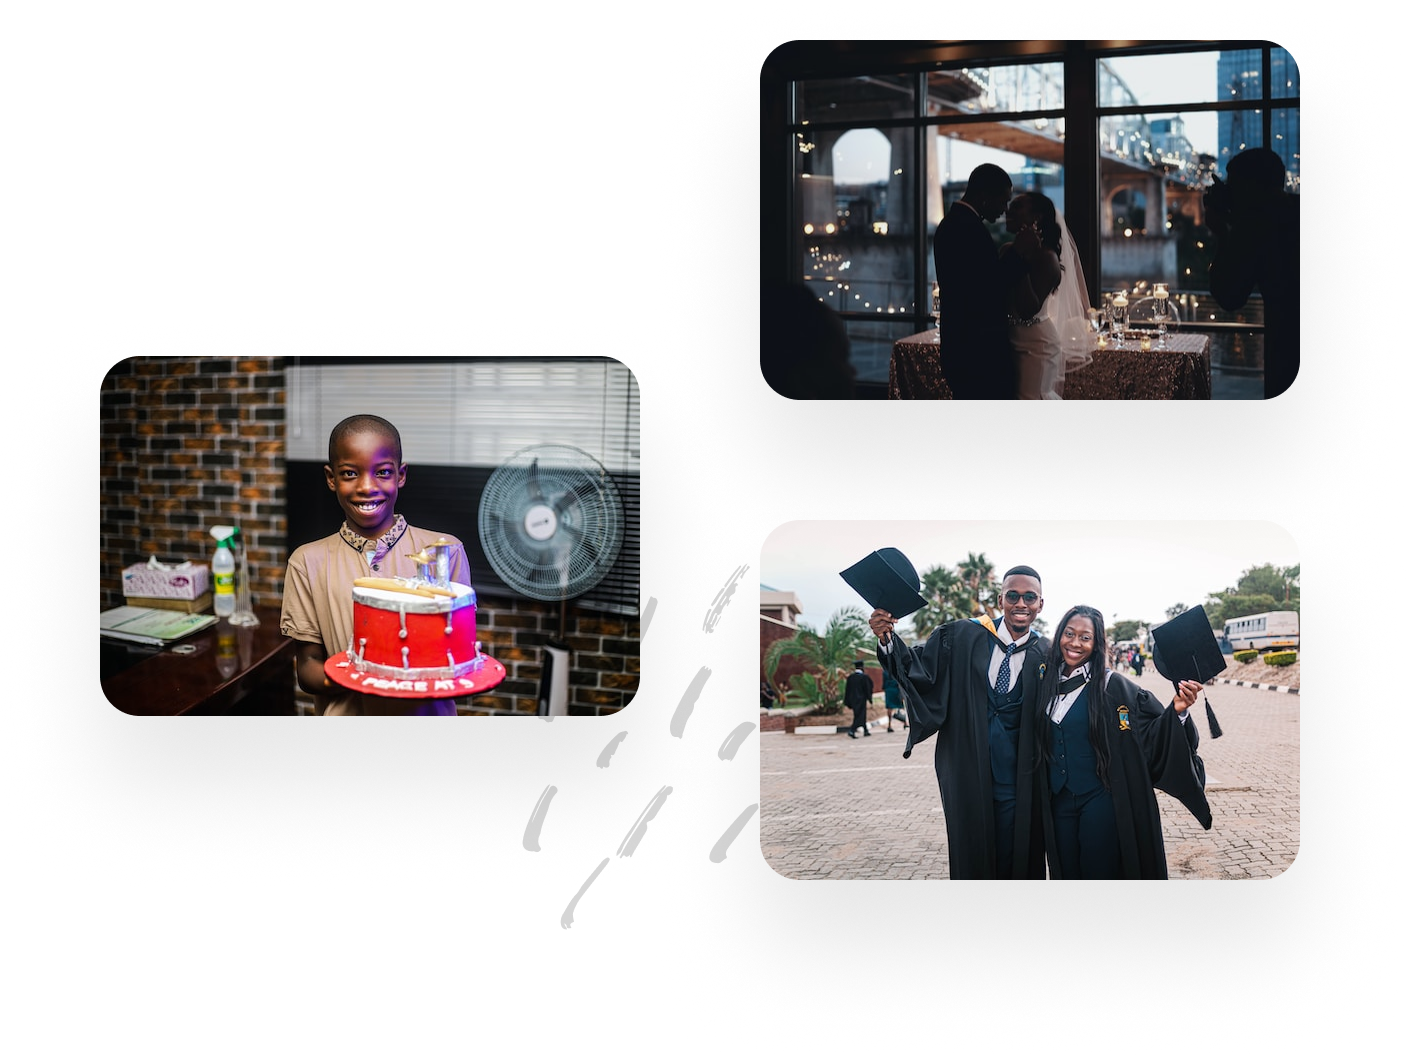
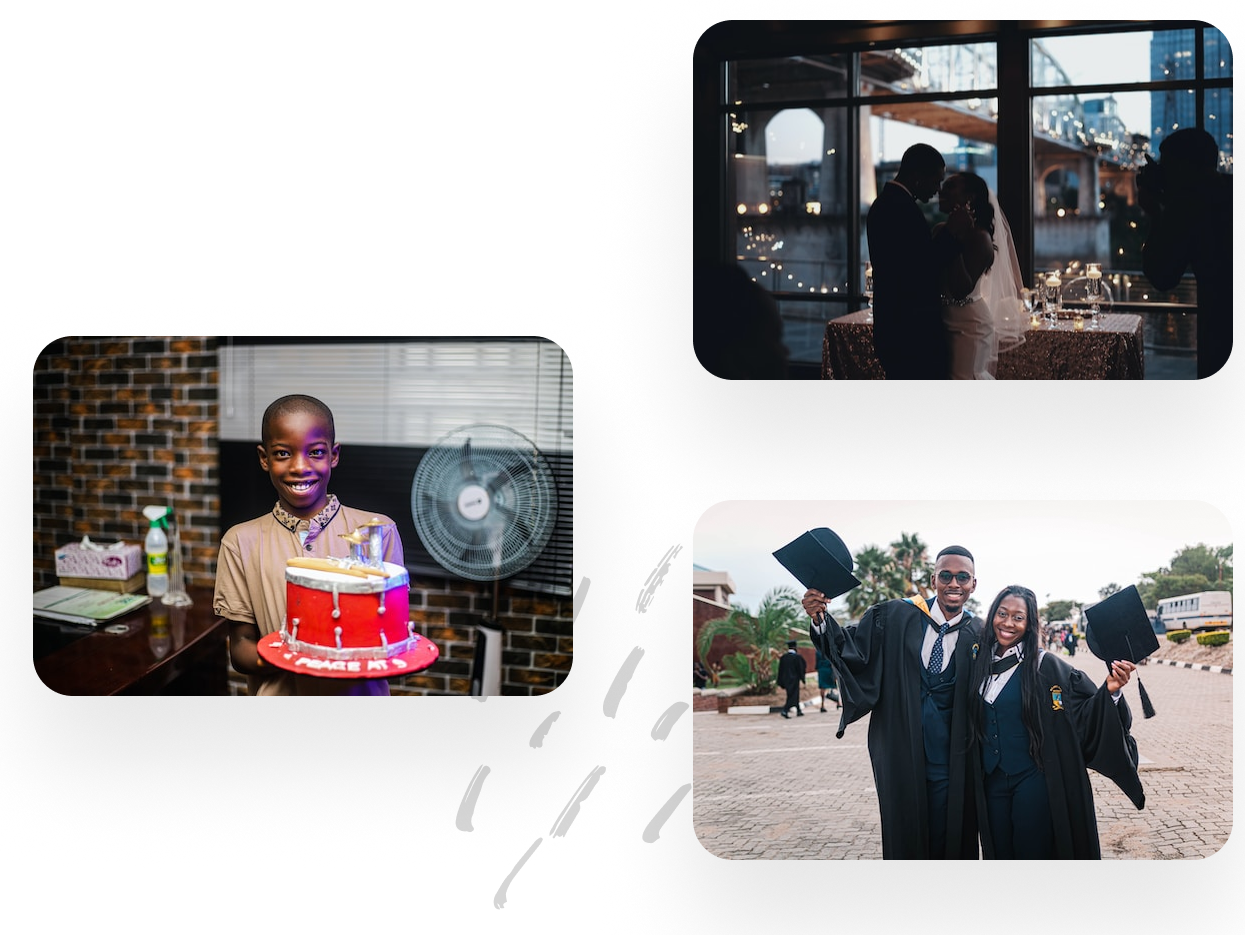
Desktop Adjusted

diff --git a/src/componets/Memories.jsx b/src/componets/Memories.jsx
@@ -71,7 +71,7 @@ const Memories = () => {
           <img
             src={GroupImage}
             alt="important memories"
-            className="ml-[-20px] smDesktop:h-[400px] object-fill tabletAir:h-[440px]"
+            className="ml-[-20px] w-[100%] smDesktop:h-[380px] object-scale-down tabletAir:h-[280px]"
           />
         </div>
         <div className="pt-[133px]">
@@ -81,11 +81,11 @@ const Memories = () => {
           <h2 className="text-[50px] smDesktop:text-[45px] smDesk:text-[40px] tabletAir:text-[36px] text-[#1A1941] leading-[60px] tracking-[-1%] font-extrabold ">
             What’s Your Occasion?
           </h2>
-          <p className="text-[16px] leading-6 tracking-[-1%] text-[#6F6681] w-[52%] smDesktop:w-[60%] font-medium mt-[7px] text-left ">
+          <p className="text-[16px] leading-6 tracking-[-1%] text-[#6F6681] w-[52%] smDesk:w-[70%] smDesktop:w-[60%] font-medium mt-[7px] text-left ">
             We built ‘this’ for you. Your Event, Your theme, Your venue, Your
             vision, Your colors, and anything else you would like.
           </p>
-          <button className="mt-[90px] flex items-center text-[16px] font-bold leading-[19.2px] gap-[20px] text-[#EE2339] border-[1px] border-[#EE2339] px-10 py-[16px] rounded-[35px] hover:bg-[#EE2339] hover:text-[#FFFFFF] ">
+          <button className="mt-[90px] smDesk:mt-[60px] tabletAir:mt-[40px] flex items-center text-[16px] font-bold leading-[19.2px] gap-[20px] text-[#EE2339] border-[1px] border-[#EE2339] px-10 py-[16px] rounded-[35px] hover:bg-[#EE2339] hover:text-[#FFFFFF] ">
             Learn more
             <IoIosArrowForward className="border-[1px] bg-[#FCD3D7] p-[2px] rounded-[50%] " />
           </button>
@@ -182,14 +182,14 @@ const Memories = () => {
             <img
               src={GroupMemories}
               alt="Amazing memories"
-              className="h-[600px] smDesktop:h-[550px] smDesk:h-[500px] object-fill tablet:h-[400px]"
+              className="w-[100%] h-[600px] smDesktop:h-[500px] smDesk:h-[440px] object-fill tabletAir:h-[400px] tablet:h-[380px]"
             />
           </div>
           <div className="w-[40%] smDesktop:w-[60%] tablet:w-[70%]">
             <h2 className="text-[50px] smDesktop:text-[40px] tabletAir:text-[30px] tablet:text-[28px] smDesk:text-[35px] leading-[60px] tracking-[-1%] text-[#1A1941] font-extrabold tabletAir:leading-[40px] ">
               Relive Every Moment of Each Event.
             </h2>
-            <p className="text-[#6F6681] text-[16px] tabletAir:text-[14px] font-normal leading-[30px] tracking-[-1%] mt-[20px] ">
+            <p className="text-[#6F6681] text-[16px] smDesktop:mt-[15px] smDesktop:leading-[28px] tabletAir:text-[14px] font-normal leading-[30px] tracking-[-1%] mt-[20px] ">
               We have envisioned how it is sometimes difficult to get your
               desired moments from an event you attended. True, we just want to
               only get to see the times we appear in events at times and this
@@ -202,27 +202,27 @@ const Memories = () => {
 
         {/* uploads Counter */}
         <div
-          className="flex gap-[54px] h-[320px] items-center justify-end pr-[12%] mt-[-250px]  smDesk:h-[200px] tabletAir:h-[140px] smDesk:mt-[-110px] tabletAir:mt-[-120px] tablet-[-90px]"
+          className="flex gap-[54px] h-[340px] items-center justify-end pr-[160px] lgDesktop:pr-[105px] smDesktop:pr-[100px]  mt-[-230px]  smDesk:h-[260px] tabletAir:h-[140px] smDesk:mt-[-110px] tabletAir:mt-[-120px] tablet-[-90px] smDesk:pr-[70px] tabletAir:pr-[40px] smDesk:gap-[40px]"
           style={{ background: "rgba(245, 245, 250, 1)" }}
         >
-          <span>
-            <p className="text-[50px]  smDesktop:text-[40px] tabletAir:leading-[60px] tabletAir:text-[32px] text-[#1A1941] font-medium leading-[75px] text-font ">
+          <span className="mt-[-180px] smDesk:mt-[-120px] tabletAir:mt-[-50px]">
+            <p className="text-[50px]  smDesktop:text-[40px] smDesk:text-[38px] tabletAir:leading-[60px] tabletAir:text-[32px] text-[#1A1941] font-medium leading-[75px] text-font ">
               45+
             </p>
             <p className="text-[16px] font-medium text-font leading-[24px]  tracking-[-1%] ">
               Events
             </p>
           </span>
-          <span>
-            <p className="text-[50px] smDesktop:text-[40px] tabletAir:leading-[60px] text-[#1A1941] tabletAir:text-[32px] font-medium leading-[75px] text-font ">
+          <span className="mt-[-180px] smDesk:mt-[-120px] tabletAir:mt-[-50px]">
+            <p className="text-[50px] smDesktop:text-[40px] smDesk:text-[38px] tabletAir:leading-[60px] text-[#1A1941] tabletAir:text-[32px] font-medium leading-[75px] text-font ">
               109K+
             </p>
             <p className="text-[16px] font-medium text-font leading-[24px] tracking-[-1%] ">
               Uploads & Downloads
             </p>
           </span>
-          <span>
-            <p className="text-[50px] smDesktop:text-[40px] tabletAir:leading-[60px] text-[#1A1941] tabletAir:text-[32px] font-medium leading-[75px] text-font ">
+          <span className="mt-[-180px] smDesk:mt-[-120px] tabletAir:mt-[-50px]">
+            <p className="text-[50px] smDesktop:text-[40px] smDesk:text-[38px] tabletAir:leading-[60px] text-[#1A1941] tabletAir:text-[32px] font-medium leading-[75px] text-font ">
               20k
             </p>
             <p className="text-[16px] font-medium text-font leading-[24px] tracking-[-1%] ">
@@ -245,7 +245,7 @@ const Memories = () => {
               <img
                 src={AmazingMemories}
                 alt="Amazing memories"
-                className="smDesktop:h-[500px] smDesktop:object-fill"
+                className="smDesktop:h-[500px] smDesktop:object-fill w-[100%] smDesk:h-[400px] tablet:h-[360px]"
               />
             </div>
             <div className="w-[40%]">

diff --git a/src/componets/Creative.jsx b/src/componets/Creative.jsx
@@ -62,7 +62,7 @@ const Creative = () => {
             <img
               src={wedding}
               alt="wedding events"
-              className="w-[392px] smDesktop:h-[300px]  object-cover rounded-[20px]"
+              className="w-[392px] smDesktop:h-[280px] smDesk:h-[260px] tabletAir:h-[220px]  object-cover rounded-[20px]"
             />
           </div>
           <div className="w-[40%]">
@@ -75,10 +75,10 @@ const Creative = () => {
             <img
               src={weddingParty}
               alt="wedding party"
-              className="w-[444px] mt-[82px]"
+              className="w-[444px] mt-[82px] smDesk:mt-[40px] "
             />
           </div>
-          <div className="w-[30%]">
+          <div className="w-[30%] ">
             <img src={weddingCake} alt="wedding Cake" className="w-[255px]" />
           </div>
         </div>
@@ -102,12 +102,12 @@ const Creative = () => {
             <img
               src={seminars}
               alt=" Seminars"
-              className="w-[50%] h-[320px] smDesktop:w-[55%] tablet:h-[260px] tabletAir:h-[280px] smDesktop:h-[300px] object-cover rounded-[20px] tabletAir:w-[53%]"
+              className="w-[50%] h-[320px] smDesktop:w-[55%] tablet:h-[260px] tablet:h-[200px] smDesktop:h-[270px] object-cover rounded-[20px] tabletAir:w-[53%] smDesk:h-[220px] tabletAir:h-[200px]"
             />
             <img
               src={seminarsPresent}
               alt="seminars Presentation"
-              className="w-[50%] h-[320px] tablet:h-[260px] smDesktop:w-[55%] tabletAir:h-[280px] tabletAir:w-[53%] smDesktop:h-[300px] rounded-[20px] object-cover mt-[-135px]"
+              className="w-[50%] h-[320px] tablet:h-[200px] smDesktop:w-[55%] tabletAir:h-[230px] tabletAir:w-[53%] rounded-[20px] object-cover mt-[-135px] smDesktop:h-[290px] smDesk:h-[260px]"
             />
           </div>
         </div>

diff --git a/tailwind.config.js b/tailwind.config.js
@@ -4,6 +4,7 @@ module.exports = {
   theme: {
     extend: {
       screens: {
+        lgDesktop: { max: "1280px" }, //large desktop
         smDesktop: { max: "1024px" }, // small desktop
         smDesk: { max: "917px" }, // small desktop
         tabletAir: { max: "820px" }, // small desktop
